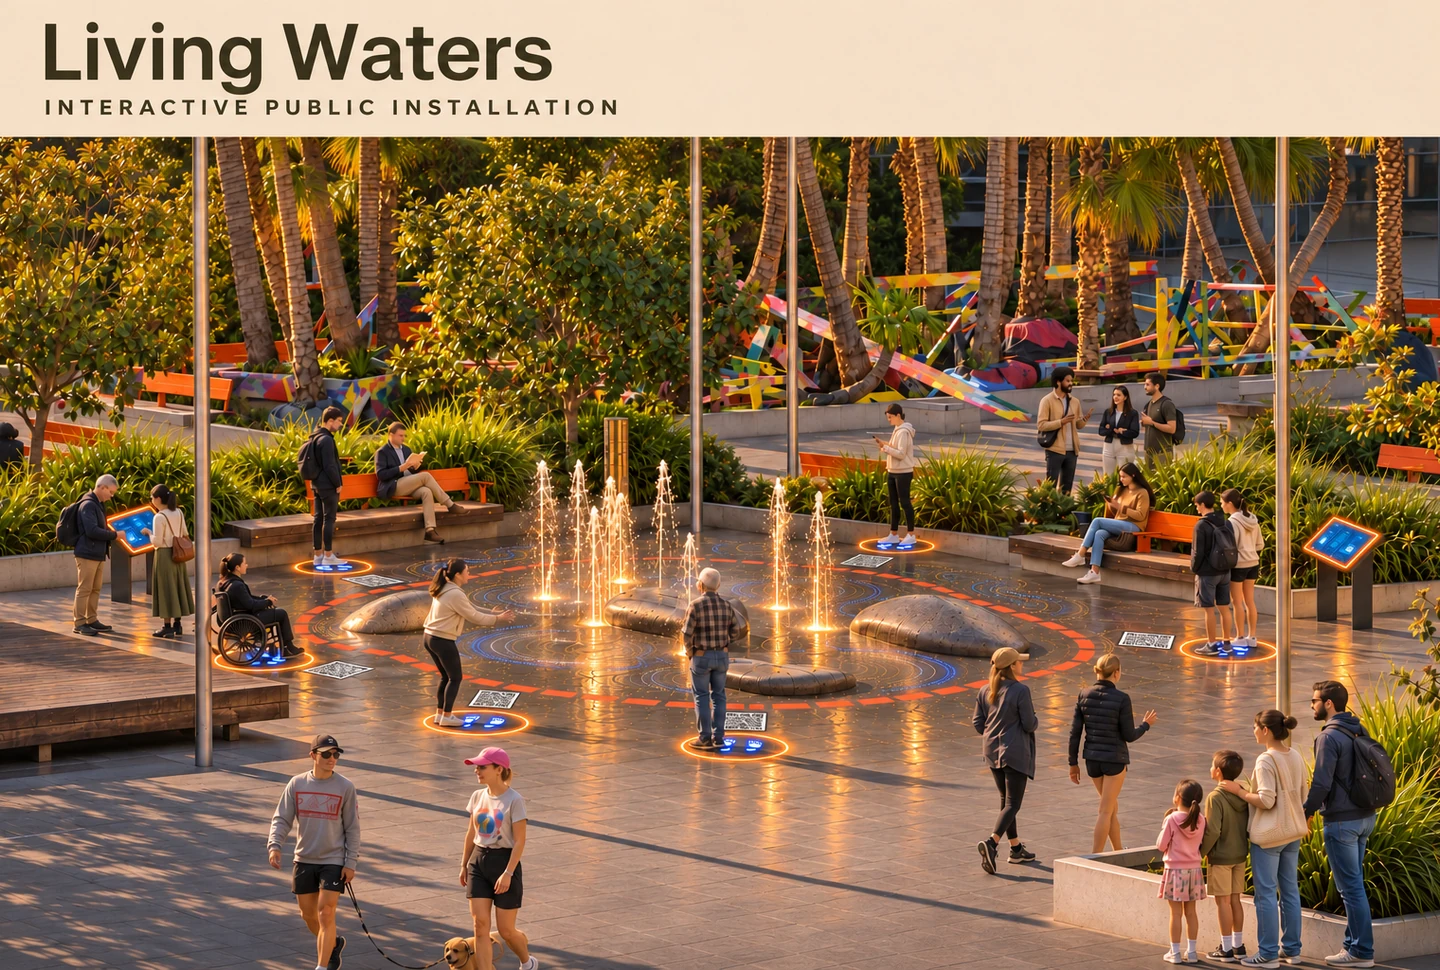
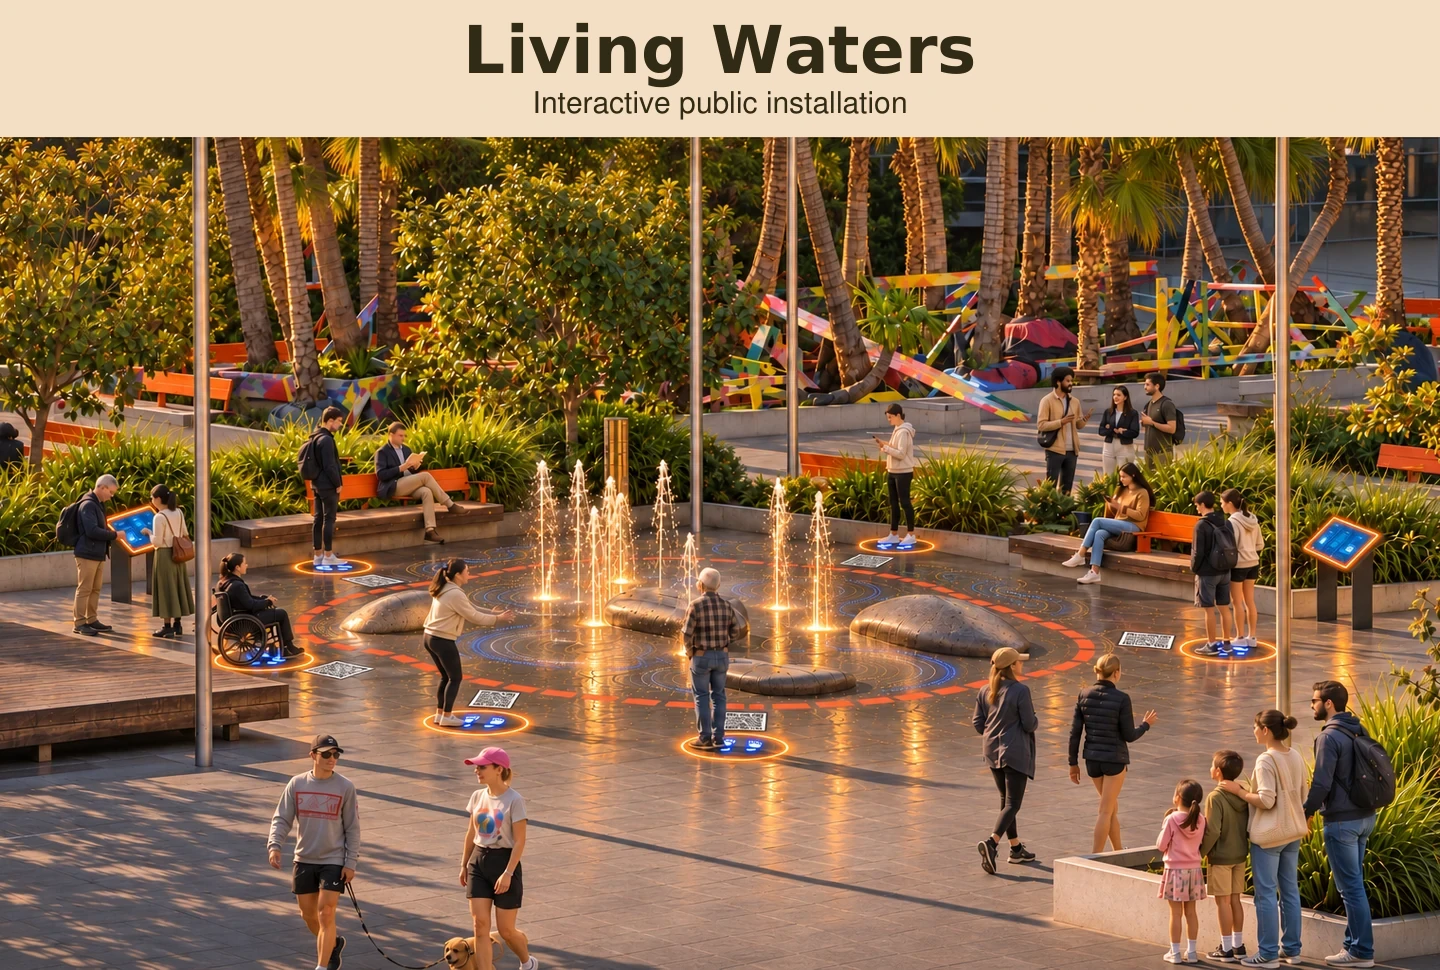
Put the Living Waters title inside the cover safe area

Changed region(s): [[0.0312, 0.0, 0.6875, 0.1237]]

diff --git a/_layouts/portfolio.html b/_layouts/portfolio.html
@@ -5747,35 +5747,7 @@ body.show-llw-page main>.portfolio-top-row{display:flex!important;}
 #lives-lived-well-page .llw-case-meet{display:block!important;padding-top:clamp(24px,3.4vw,70px)!important;}
 #lives-lived-well-page .brand-meet-icon svg{overflow:visible!important;}
 [data-case-page="lives-lived-well"]{cursor:pointer;}
-</style><style id="archive-hover-nav-colour">body .archive-entry a.archive-shape-link.archive-rosette:is(:hover,:focus-visible) .archive-rosette-edge path{stroke:var(--hover-accent)!important}body .archive-entry a.archive-shape-link.archive-rosette:is(:hover,:focus-visible)>.archive-rosette-label{color:var(--hover-accent)!important}</style><style id="archive-home-hover-size-update">body .archive-entry a.archive-shape-link.archive-double-rosette:is(:hover,:focus-visible) .archive-double-rosette-edge path,body.show-archive-page #archive a.home-rosette:is(:hover,:focus-visible) .home-rosette-edge path{stroke:var(--hover-accent)!important}body .archive-entry a.archive-shape-link.archive-double-rosette:is(:hover,:focus-visible)>.archive-double-rosette-label,body.show-archive-page #archive a.home-rosette:is(:hover,:focus-visible)>.home-rosette-label{color:var(--hover-accent)!important}body.show-archive-page #archive a.archive-return.home-rosette{width:240px!important;height:240px!important}body.show-archive-page #archive a.home-rosette>.home-rosette-label{font-size:29px!important}@media(max-width:600px){body.show-archive-page #archive a.archive-return.home-rosette{width:190px!important;height:190px!important}body.show-archive-page #archive a.home-rosette>.home-rosette-label{font-size:24px!important}}</style><style id="health-reference-header-offset">body.show-llw-page:has(#llw-exact-page[title="Department of Health case study"]) header.nav{position:absolute!important;inset:0 0 auto!important;width:100%!important}</style><style id="living-waters-marquee-safe-title">
-#work .living-waters-tile{position:relative;--living-waters-corner:34px}
-#work .living-waters-tile img{border-radius:var(--living-waters-corner)!important}
-#work .living-waters-tile-header{
-  position:absolute;
-  inset:0 0 auto;
-  height:14.3%;
-  border-radius:var(--living-waters-corner) var(--living-waters-corner) 0 0;
-  background:linear-gradient(120deg,#f6e2cb,#f3dec6);
-  color:#312a17;
-  display:flex;
-  flex-direction:column;
-  align-items:center;
-  justify-content:center;
-  gap:3%;
-  container-type:inline-size;
-  pointer-events:none;
-  font-family:Arial,sans-serif;
-  text-align:center;
-}
-#work .living-waters-tile-header, #work .living-waters-tile-header span{padding:0;text-transform:none}
-#work .living-waters-tile-title{font-size:5.5cqw;font-weight:700;line-height:1;letter-spacing:-.035em}
-#work .living-waters-tile-subtitle{font-size:2.05cqw;font-weight:600;line-height:1.1;letter-spacing:.02em}
-@media(max-width:991px){#work .living-waters-tile{--living-waters-corner:clamp(10px,2.5vw,28px)}}
-@media(max-width:520px){
-  #work .living-waters-tile-title{font-size:7cqw}
-  #work .living-waters-tile-subtitle{display:none}
-}
-</style></head><body>
+</style><style id="archive-hover-nav-colour">body .archive-entry a.archive-shape-link.archive-rosette:is(:hover,:focus-visible) .archive-rosette-edge path{stroke:var(--hover-accent)!important}body .archive-entry a.archive-shape-link.archive-rosette:is(:hover,:focus-visible)>.archive-rosette-label{color:var(--hover-accent)!important}</style><style id="archive-home-hover-size-update">body .archive-entry a.archive-shape-link.archive-double-rosette:is(:hover,:focus-visible) .archive-double-rosette-edge path,body.show-archive-page #archive a.home-rosette:is(:hover,:focus-visible) .home-rosette-edge path{stroke:var(--hover-accent)!important}body .archive-entry a.archive-shape-link.archive-double-rosette:is(:hover,:focus-visible)>.archive-double-rosette-label,body.show-archive-page #archive a.home-rosette:is(:hover,:focus-visible)>.home-rosette-label{color:var(--hover-accent)!important}body.show-archive-page #archive a.archive-return.home-rosette{width:240px!important;height:240px!important}body.show-archive-page #archive a.home-rosette>.home-rosette-label{font-size:29px!important}@media(max-width:600px){body.show-archive-page #archive a.archive-return.home-rosette{width:190px!important;height:190px!important}body.show-archive-page #archive a.home-rosette>.home-rosette-label{font-size:24px!important}}</style><style id="health-reference-header-offset">body.show-llw-page:has(#llw-exact-page[title="Department of Health case study"]) header.nav{position:absolute!important;inset:0 0 auto!important;width:100%!important}</style></head><body>
 {% unless page.case_study %}<iframe loading="eager" fetchpriority="high" id="soundcloud-audio" title="Ashwagandha audio player" src="https://w.soundcloud.com/player/?url=https%3A%2F%2Fapi.soundcloud.com%2Ftracks%2F2222715041&amp;auto_play=false&amp;show_artwork=false&amp;show_user=false&amp;sharing=false&amp;buying=false&amp;download=false" allow="autoplay; encrypted-media" tabindex="-1" aria-hidden="true" style="position:fixed;left:-10000px;top:0;width:300px;height:166px;border:0;"></iframe>{% endunless %}
 
 <header class="nav"><div class="nav-left"><a href="#cases">index</a><a href="#about">about</a></div><a aria-label="Home" class="brand brand-logo" href="./"><svg aria-label="Shruthi logo" fill="none" height="51" viewbox="0 0 48 51" width="48" xmlns="http://www.w3.org/2000/svg">
@@ -5804,7 +5776,7 @@ body.show-llw-page main>.portfolio-top-row{display:flex!important;}
 <span>UI DESIGN</span><i></i>
 <span>PRODUCT DESIGN</span><i></i><span>WEB DESIGN</span>
 </div>
-<section class="marquee case-marquee" id="work"><div class="marquee-track"><a class="mini real-mini" href="department-of-health/"><img alt="Department of Health" src="assets/media/36f2afef7190991b575a.webp"/></a><a class="mini real-mini" href="nutripaw/"><img alt="NutriPaw" src="assets/media/5e5ab662c6746344b605.webp"/></a><a class="mini real-mini living-waters-tile" href="living-waters/" aria-label="Living Waters case study"><img alt="" src="assets/living-waters-marquee.webp?v=installation-cover" width="1440" height="970"/><span class="living-waters-tile-header" aria-hidden="true"><span class="living-waters-tile-title">Living Waters</span><span class="living-waters-tile-subtitle">Interactive public installation</span></span></a><a class="mini real-mini" href="lives-lived-well/"><img alt="Lives Lived Well" src="assets/media/42f73c9681e106482b86.webp"/></a><a class="mini real-mini" href="harmony-sync/"><img alt="Harmony Sync case study" src="assets/media/f7838007f7995ab994df.webp"/></a><a class="mini real-mini" href="trollect/"><img alt="Trollect case study" src="assets/media/5315ac97818a6d44b4a7.webp"/></a><a class="mini real-mini" href="department-of-health/"><img alt="Department of Health" src="assets/media/36f2afef7190991b575a.webp"/></a><a class="mini real-mini" href="nutripaw/"><img alt="NutriPaw" src="assets/media/5e5ab662c6746344b605.webp"/></a><a class="mini real-mini living-waters-tile" href="living-waters/" aria-label="Living Waters case study"><img alt="" src="assets/living-waters-marquee.webp?v=installation-cover" width="1440" height="970"/><span class="living-waters-tile-header" aria-hidden="true"><span class="living-waters-tile-title">Living Waters</span><span class="living-waters-tile-subtitle">Interactive public installation</span></span></a><a class="mini real-mini" href="lives-lived-well/"><img alt="Lives Lived Well" src="assets/media/42f73c9681e106482b86.webp"/></a><a class="mini real-mini" href="harmony-sync/"><img alt="Harmony Sync case study" src="assets/media/f7838007f7995ab994df.webp"/></a><a class="mini real-mini" href="trollect/"><img alt="Trollect case study" src="assets/media/5315ac97818a6d44b4a7.webp"/></a></div></section>
+<section class="marquee case-marquee" id="work"><div class="marquee-track"><a class="mini real-mini" href="department-of-health/"><img alt="Department of Health" src="assets/media/36f2afef7190991b575a.webp"/></a><a class="mini real-mini" href="nutripaw/"><img alt="NutriPaw" src="assets/media/5e5ab662c6746344b605.webp"/></a><a class="mini real-mini" href="living-waters/"><img alt="Living Waters case study" src="assets/living-waters-marquee.webp?v=centred-title"/></a><a class="mini real-mini" href="lives-lived-well/"><img alt="Lives Lived Well" src="assets/media/42f73c9681e106482b86.webp"/></a><a class="mini real-mini" href="harmony-sync/"><img alt="Harmony Sync case study" src="assets/media/f7838007f7995ab994df.webp"/></a><a class="mini real-mini" href="trollect/"><img alt="Trollect case study" src="assets/media/5315ac97818a6d44b4a7.webp"/></a><a class="mini real-mini" href="department-of-health/"><img alt="Department of Health" src="assets/media/36f2afef7190991b575a.webp"/></a><a class="mini real-mini" href="nutripaw/"><img alt="NutriPaw" src="assets/media/5e5ab662c6746344b605.webp"/></a><a class="mini real-mini" href="living-waters/"><img alt="Living Waters case study" src="assets/living-waters-marquee.webp?v=centred-title"/></a><a class="mini real-mini" href="lives-lived-well/"><img alt="Lives Lived Well" src="assets/media/42f73c9681e106482b86.webp"/></a><a class="mini real-mini" href="harmony-sync/"><img alt="Harmony Sync case study" src="assets/media/f7838007f7995ab994df.webp"/></a><a class="mini real-mini" href="trollect/"><img alt="Trollect case study" src="assets/media/5315ac97818a6d44b4a7.webp"/></a></div></section>
 <section class="cases v54-cases" id="cases"><h2 class="v54-case-label">case studies</h2><article class="v54-case-row" data-case-page="department-of-health" role="link" tabindex="0" aria-label="View Department of Health case study"><div class="v54-case-title"><h3><span class="v54-case-num">01</span><span class="v215-case-name">Department of Health</span></h3></div><div class="v54-case-tags"><span>Website Design</span><span>UI/UX</span><span>Interaction Design</span></div><div aria-hidden="true" class="v160-hover-image-wrapper"><img alt="" class="v160-hover-image" src="assets/media/36f2afef7190991b575a.webp"/></div></article>
 <article class="v54-case-row" data-case-page="nutripaw" role="link" tabindex="0" aria-label="View NutriPaw case study"><div class="v54-case-title"><h3><span class="v54-case-num">02</span><span class="v215-case-name">NutriPaw</span></h3></div><div class="v54-case-tags"><span>Product Design</span><span>Branding Design</span><span>Mobile Design</span></div><div aria-hidden="true" class="v160-hover-image-wrapper"><img alt="" class="v160-hover-image" src="assets/media/1106ce9687be07986a2c.webp"/></div></article>
 
